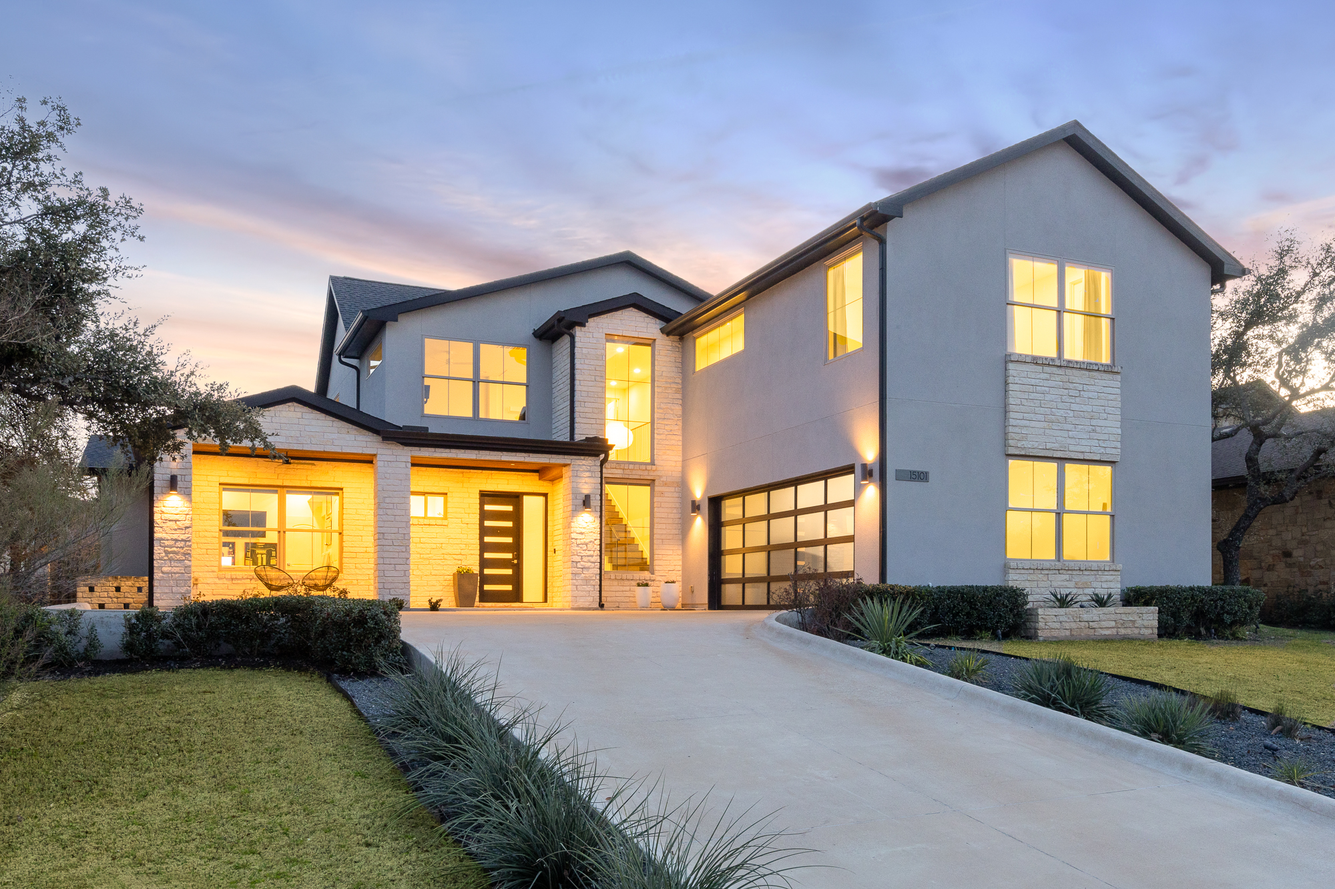
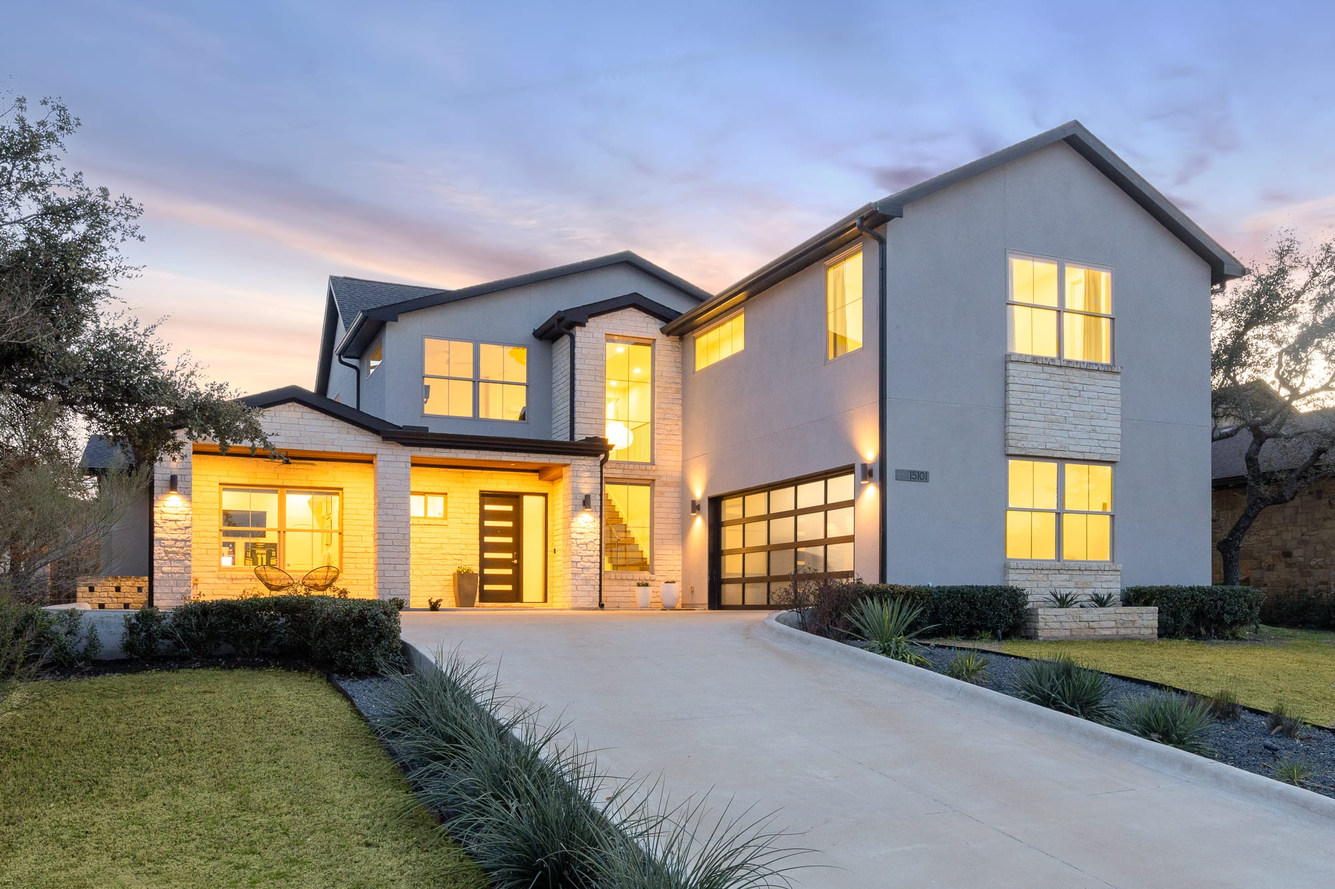
Populate service galleries with real photos from the original site
Found the actual filenames used on the old luckimages.com service pages
by inspecting the live (still-hosted) Squarespace source via its default
subdomain, since the custom domain now points elsewhere. Matched 36 of
those filenames back to their source files in the local portfolio
library and wired them into listing-photos, drone, twilight, and
virtual-staging.

- Removed the broken before/after slider on virtual-staging (referenced
  /staging-before-N.jpg files that never existed) in favor of a normal
  gallery using the real staged photos
- Compressed all portfolio images and the homepage hero rotation with
  sharp (mozjpeg, max 2000-2400px wide) -- portfolio folder dropped from
  ~90MB to 12MB, hero images from ~30MB to ~2.3MB total
- floorplans and brochures still show placeholders -- no source photos
  existed for those on the original site

diff --git a/src/app/services/[slug]/page.tsx b/src/app/services/[slug]/page.tsx
@@ -2,7 +2,6 @@ import Link from "next/link";
 import { SERVICES } from "@/lib/services";
 import { notFound } from "next/navigation";
 import PhotoGallery from "@/components/PhotoGallery";
-import BeforeAfterSlider from "@/components/BeforeAfterSlider";
 import FadeUp from "@/components/FadeUp";
 
 const DESCRIPTIONS: Record<string, string> = {
@@ -16,24 +15,46 @@ const DESCRIPTIONS: Record<string, string> = {
   "brochures": "Print-ready and digital property brochures that make a lasting impression at open houses.",
 };
 
-// Placeholder counts per service — swap src strings for real paths when ready
+// Real photos pulled from the original luckimages.com service pages,
+// matched back to their source files on disk.
+const GALLERY_PHOTOS: Record<string, string[]> = {
+  "listing-photos": [
+    "315RingtailStreamDr-13.jpg", "104WesthavenDrive-33.jpg", "6701BackBayLn-10.jpg",
+    "2506CarlowDr-10.jpg", "315RingtailStreamDr-17.jpg", "1008ConcordiaDr-27.jpg",
+    "593CrosswaterLn-31.jpg", "5409Hitcherbend-18.jpg", "6701BackBayLn-15.jpg",
+    "1005PartidaTrail-19.jpg", "2506CarlowDr-11.jpg", "6701BackBayLn-17.jpg",
+  ],
+  "drone": [
+    "drone-1.jpg", "1802MapleDrone-2.jpg", "1136CountyRoad484Drone-5.jpg",
+    "1107CountryRoad322Drone-3.jpg", "197BristleconeDr-Drone-15.jpg",
+    "104WesthavenDrone-5.jpg", "116MallardDrone-2.jpg",
+    "bernia_interior-3.jpg", "bernia_interior-4.jpg", "bernia_interior-5.jpg",
+    "bernia_interior-6.jpg", "bernia_interior-7.jpg",
+  ],
+  "twilight": ["WebTwilight-2.jpg", "WebTwilight-3.jpg"],
+  "virtual-staging": [
+    "webVS-1.jpg", "webVS-2.jpg", "webVS-5.jpg", "webVS-6.jpg",
+    "webVS-7.jpg", "webVS-8.jpg", "webVS-11.jpg", "webVS-12.jpg",
+  ],
+};
+
+// Placeholder counts for services with no source photos recovered yet.
 const GALLERY_COUNTS: Record<string, number> = {
-  "listing-photos": 12,
-  "twilight": 8,
-  "drone": 8,
   "floorplans": 6,
   "brochures": 6,
 };
 
-const GALLERY_SERVICES = new Set(Object.keys(GALLERY_COUNTS));
+const GALLERY_SERVICES = new Set([...Object.keys(GALLERY_PHOTOS), ...Object.keys(GALLERY_COUNTS)]);
 
 export default async function ServicePage({ params }: { params: Promise<{ slug: string }> }) {
   const { slug } = await params;
   const service = SERVICES.find((s) => s.slug === slug);
   if (!service) notFound();
 
-  const placeholderCount = GALLERY_COUNTS[slug] || 0;
-  const photos = Array.from({ length: placeholderCount }, () => ({ src: "" }));
+  const realPhotos = GALLERY_PHOTOS[slug];
+  const photos = realPhotos
+    ? realPhotos.map((f) => ({ src: `/portfolio/${slug}/${f}`, alt: `${service.name} — Luck Images` }))
+    : Array.from({ length: GALLERY_COUNTS[slug] || 0 }, () => ({ src: "" }));
 
   return (
     <main className="min-h-screen bg-[#0c0c0c] text-white flex flex-col">
@@ -55,22 +76,6 @@ export default async function ServicePage({ params }: { params: Promise<{ slug: 
           </div>
         </FadeUp>
       </div>
-
-      {/* Virtual Staging — before/after sliders */}
-      {slug === "virtual-staging" && (
-        <section className="px-8 pb-24 max-w-5xl mx-auto w-full">
-          <p className="text-xs tracking-[4px] uppercase text-[#555] mb-8 flex items-center gap-4 after:flex-1 after:h-px after:bg-white/10 after:content-['']">
-            Before & After
-          </p>
-          <p className="text-xs text-[#555] mb-8 tracking-wide">Drag the slider to compare.</p>
-          <div className="flex flex-col gap-6">
-            {/* Placeholder pairs — swap src values for real before/after images */}
-            <BeforeAfterSlider before="/staging-before-1.jpg" after="/staging-after-1.jpg" />
-            <BeforeAfterSlider before="/staging-before-2.jpg" after="/staging-after-2.jpg" />
-            <BeforeAfterSlider before="/staging-before-3.jpg" after="/staging-after-3.jpg" />
-          </div>
-        </section>
-      )}
 
       {/* Gallery */}
       {GALLERY_SERVICES.has(slug) && (
